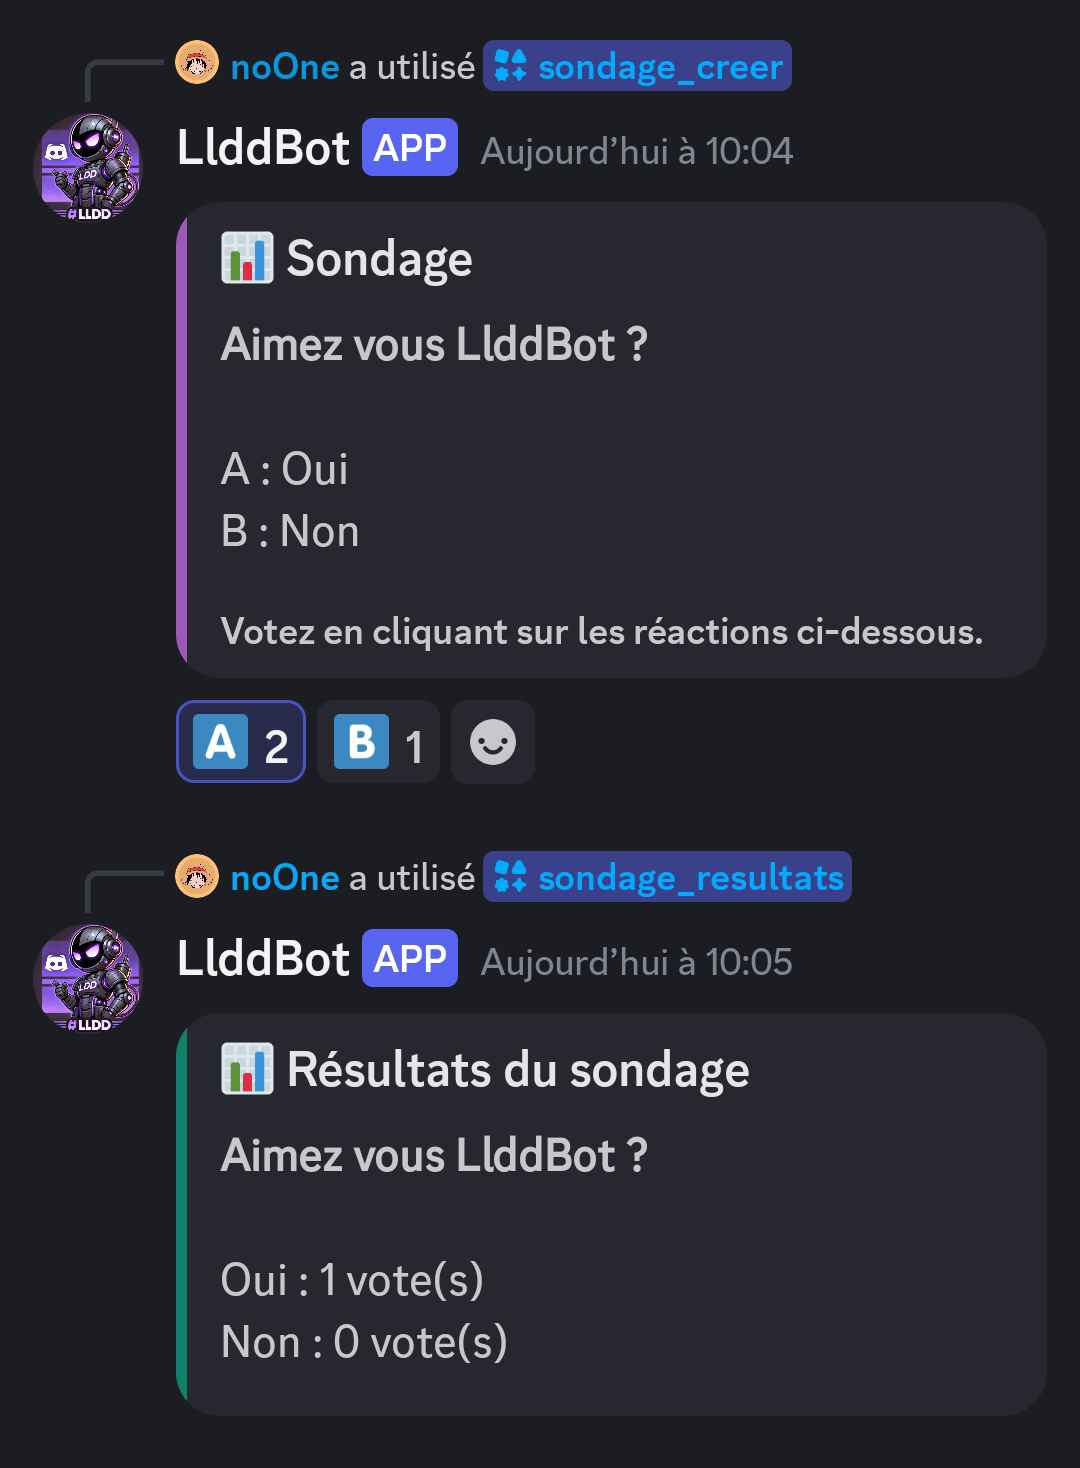
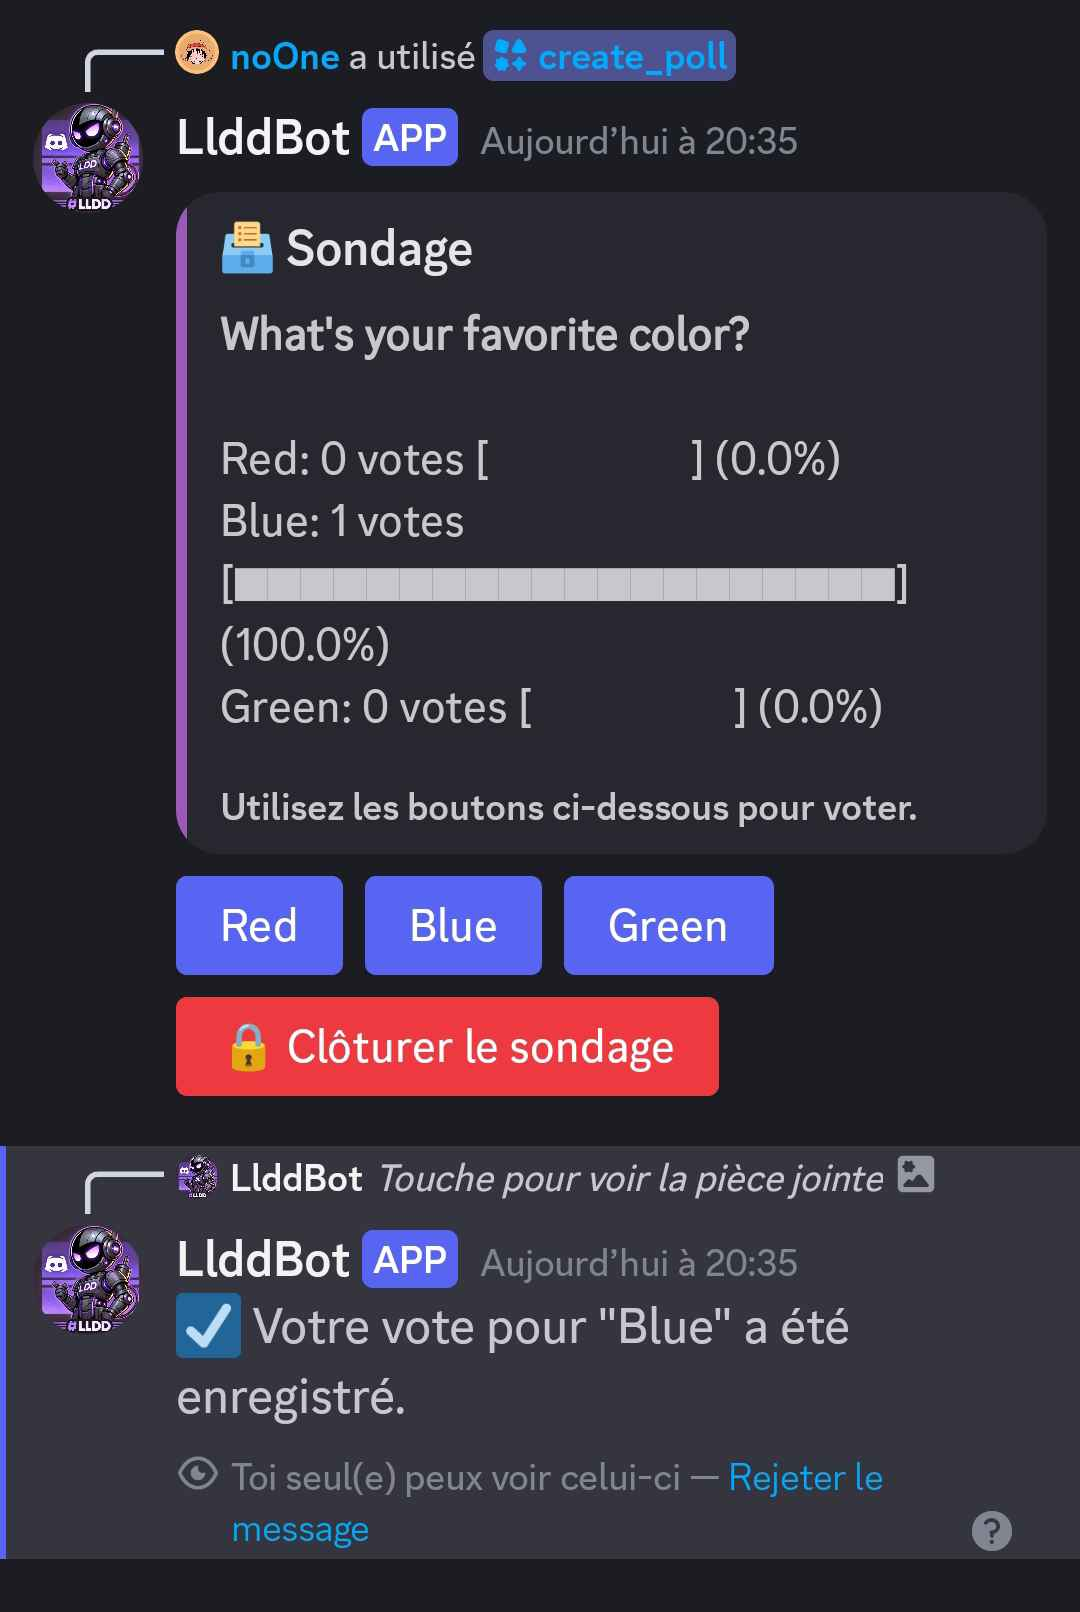
fix: refactor polls module and fix major issues
- Replaced the outdated polls.py with a modular approach.
- Added poll_commands.py and poll_management.py to handle poll commands and logic separately.
- Introduced interactive buttons for voting using Discord UI components.
- Resolved issues with poll closing and result display.
- Updated README.md to reflect the new poll commands and usage.
- Improved error handling and logging for better debugging.
- Enhanced user feedback and permissions for poll interaction.

This refactor improves maintainability, user experience, and extends functionality.

diff --git a/cogs/poll_commands.py b/cogs/poll_commands.py
@@ -1,0 +1,150 @@
+import discord
+from discord.ext import commands
+from discord import ui, ButtonStyle
+from utils.logger import logger
+from .poll_management import Poll
+
+
+class PollView(ui.View):
+    def __init__(self, poll, author_id):
+        super().__init__(timeout=None)
+        self.poll = poll
+        self.author_id = author_id  # Pour permettre uniquement à l'auteur de fermer le sondage
+
+        # Ajouter un bouton pour chaque option
+        for i, option in enumerate(poll.options):
+            self.add_item(VoteButton(option, i, self.poll))
+
+        # Bouton pour terminer le sondage
+        self.add_item(ClosePollButton(poll, author_id))
+
+
+class VoteButton(ui.Button):
+    def __init__(self, option, index, poll):
+        super().__init__(style=ButtonStyle.primary, label=option, custom_id=f"vote_{index}")
+        self.poll = poll
+        self.option = option
+
+    async def callback(self, interaction: discord.Interaction):
+        user = interaction.user
+
+        if self.poll.ended:
+            await interaction.response.send_message("❌ Le sondage est clôturé, vous ne pouvez plus voter.", ephemeral=True)
+            return
+
+        if not self.poll.is_user_allowed(user):
+            await interaction.response.send_message("❌ Vous n'êtes pas autorisé à voter dans ce sondage.", ephemeral=True)
+            return
+
+        # Ajouter le vote
+        self.poll.vote(user, self.option)
+        await interaction.response.send_message(f"☑ Votre vote pour \"{self.option}\" a été enregistré.", ephemeral=True)
+
+        # Mettre à jour l'affichage des résultats
+        embed = interaction.message.embeds[0]
+        embed.description = f"**{self.poll.question}**\n\n{self.poll.render_results()}"
+        await interaction.message.edit(embed=embed)
+
+
+
+class ClosePollButton(ui.Button):
+    def __init__(self, poll, author_id):
+        super().__init__(style=ButtonStyle.danger, label="🔒 Clôturer le sondage", custom_id="close_poll")
+        self.poll = poll
+        self.author_id = author_id  # Stocker l'ID de l'auteur pour vérifier les permissions
+
+    async def callback(self, interaction: discord.Interaction):
+        # Vérifie si l'utilisateur est l'auteur du sondage
+        if interaction.user.id != self.author_id:
+            await interaction.response.send_message("❌ Seul l'auteur du sondage peut le clôturer.", ephemeral=True)
+            return
+
+        self.poll.ended = True
+        # Désactiver les boutons
+        for item in self.view.children:
+            item.disabled = True
+        self.view.stop()
+
+        # Mettre à jour l'embed avec les résultats finaux
+        embed = interaction.message.embeds[0]
+        embed.title = "📊 Sondage terminé"
+        embed.color = discord.Color.dark_teal()
+        embed.description = f"**{self.poll.question}**\n\n{self.poll.render_results()}"
+        await interaction.message.edit(embed=embed, view=self.view)
+        await interaction.response.send_message("☑ Le sondage a été clôturé.")
+
+
+class PollCommands(commands.Cog):
+    def __init__(self, bot):
+        self.bot = bot
+        self.active_polls = {}
+
+    @commands.hybrid_command(name="create_poll", description="Crée un nouveau sondage.")
+    async def create_poll(self, ctx, question: str, options: str):
+        """
+        Créer un nouveau sondage avec une question et des options.
+        Les options doivent être séparées par des points-virgules (;).
+        Exemple : /create_poll question: "Votre couleur préférée ?" options: "Rouge;Bleu;Vert"
+        """
+        options_list = [opt.strip() for opt in options.split(";") if opt.strip()]
+
+        if len(options_list) < 2:
+            await ctx.send("❌ Vous devez fournir au moins deux options pour créer un sondage.")
+            return
+
+        if len(options_list) > 15:
+            await ctx.send("❌ Vous ne pouvez pas avoir plus de 15 options dans un sondage.")
+            return
+
+        if ctx.channel.id in self.active_polls:
+            await ctx.send("⚠ Un sondage est déjà actif dans ce salon. Veuillez le terminer avant d'en créer un autre.")
+            return
+
+        poll = Poll(question, options_list)
+        self.active_polls[ctx.channel.id] = poll
+
+        embed = discord.Embed(
+            title="🗳 Sondage",
+            description=f"**{poll.question}**\n\n{poll.render_results()}",
+            color=discord.Color.purple()
+        )
+        embed.set_footer(text="Utilisez les boutons ci-dessous pour voter.")
+
+        view = PollView(poll, ctx.author.id)
+        poll.message = await ctx.send(embed=embed, view=view)
+        self.active_polls[ctx.channel.id] = poll  # Stocker le sondage avec le message correctement défini
+
+        logger.info(f"[POLL CREATED] Un sondage a été créé par {ctx.author} dans le salon {ctx.channel}. Question: {poll.question}")
+
+    @commands.hybrid_command(name="end_poll", description="Termine un sondage actif et affiche les résultats.")
+    async def end_poll(self, ctx):
+        """Clôturer un sondage actif et afficher les résultats."""
+        poll = self.active_polls.pop(ctx.channel.id, None)
+
+        if not poll:
+            await ctx.send("❌ Aucun sondage actif à terminer dans ce salon.")
+            return
+
+        if not poll.message:  # Vérifie si le message du sondage existe
+            await ctx.send("❌ Impossible de trouver le message associé au sondage.")
+            return
+
+        poll.ended = True
+
+        # Désactiver les boutons
+        for item in poll.message.components[0].children:
+            item.disabled = True
+
+        # Mettre à jour l'embed avec les résultats finaux
+        embed = discord.Embed(
+            title="📊 Sondage terminé",
+            description=f"**{poll.question}**\n\n{poll.render_results()}",
+            color=discord.Color.green()
+        )
+        await poll.message.edit(embed=embed, view=None)
+        await ctx.send("☑ Le sondage a été clôturé.")
+
+
+async def setup(bot):
+    await bot.add_cog(PollCommands(bot))
+    logger.info("☑ Cog des commandes de sondage chargé avec succès.")

diff --git a/cogs/poll_management.py b/cogs/poll_management.py
@@ -1,0 +1,57 @@
+import discord
+from utils.logger import logger
+from .bar import render_bar
+
+
+class Poll:
+    def __init__(self, question, options, multi_vote=False, voter_role=None):
+        self.question = question
+        self.options = options[:15]  # Limite à 15 options maximum
+        self.multi_vote = multi_vote
+        self.voter_role = voter_role
+        self.votes = {option: 0 for option in self.options}
+        self.user_votes = {}  # Dictionnaire pour suivre les votes des utilisateurs
+        self.message = None
+        self.ended = False
+
+    def vote(self, user, option):
+        """Gérer le vote d'un utilisateur pour une option."""
+        if not self.multi_vote and user.id in self.user_votes:
+            # Annuler le vote précédent si multi-vote désactivé
+            previous_option = self.user_votes[user.id]
+            self.votes[previous_option] -= 1
+
+        # Enregistre le nouveau vote
+        self.user_votes[user.id] = option
+        self.votes[option] += 1
+
+    def cancel_vote(self, user):
+        """Annuler le vote d'un utilisateur."""
+        if user.id in self.user_votes:
+            previous_option = self.user_votes.pop(user.id)
+            self.votes[previous_option] -= 1
+
+    def render_results(self):
+        """Générer les résultats du sondage sous forme de texte avec barres de progression."""
+        total_votes = sum(self.votes.values())
+        results = []
+
+        for option, count in self.votes.items():
+            part = (count / total_votes) * 100 if total_votes > 0 else 0
+            bar = render_bar(20, part)  # Utilise render_bar pour générer une barre de progression
+            results.append(f"{option}: {count} votes {bar} ({part:.1f}%)")
+
+        return "\n".join(results)
+
+    def is_user_allowed(self, user):
+        """Vérifie si l'utilisateur est autorisé à voter."""
+        if self.voter_role:
+            return self.voter_role in [role.id for role in user.roles]
+        return True  # Par défaut, tout le monde est autorisé
+
+    def results(self):
+        """Retourner les résultats triés par nombre de votes."""
+        return sorted(self.votes.items(), key=lambda x: x[1], reverse=True)
+
+async def setup(bot):
+    pass

diff --git a/cogs/bar.py b/cogs/bar.py
@@ -1,0 +1,15 @@
+def render_bar(max_length, percentage):
+    """
+    Rendu d'une barre de progression.
+
+    :param max_length: Longueur maximale de la barre.
+    :param percentage: Pourcentage de progression (0-100).
+    :return: Représentation de la barre.
+    """
+    filled_blocks = int(max_length * (percentage / 100))
+    empty_blocks = max_length - filled_blocks
+    bar = f"[{'█' * filled_blocks}{' ' * empty_blocks}]"
+    return bar
+
+async def setup(bot):
+    pass

diff --git a/README.md b/README.md
@@ -25,7 +25,7 @@
 A complete and customizable Discord bot designed to manage and engage community servers.  
 This bot includes moderation tools, mini-games, advanced logging, activity statistics, and much more.
 
-*(only available in French version 🇫🇷)*
+*(project under construction and only available in French version 🇫🇷)*
 
 
 <div align="center">
@@ -207,18 +207,29 @@ This Discord bot offers several key features:
 
 ---
 
-### **Poll Commands**
-* **`/sondage_creer`** `<question> <options>`  
-  ➡ Create a poll with a question and up to 10 options (separated by commas).
+## **Poll Commands**
+The poll module allows you to create, manage, and display interactive polls directly in your Discord channels.
 
-* **`/sondage_resultats`**  
-  ➡ Display the results of the current poll in the channel.
+### **Commands**
+#### **`/create_poll`**
+➡ Creates a new poll with a question and up to 15 options.
 
-* **`/sondage_terminer`**  
-  ➡ End the poll in the channel and show the results.
+➡ **Usage**:
+  ```bash
+  /create_poll question:"Your question?" options:"Option 1;Option 2;Option 3"
+  ```
+
 <div align="left">
   <img src="img/polls.jpg" alt="polls preview" width="250px">
 </div>
+
+thx to [JohnnyJayJay](https://github.com/JohnnyJayJay) for the inspiration.
+
+#### **`/poll_results`**
+ ➡ Displays the current results of an active poll in the channel.
+
+#### **`/end_poll`**
+ ➡ Ends an active poll in the channel and displays the final results.
 
 ---
 
